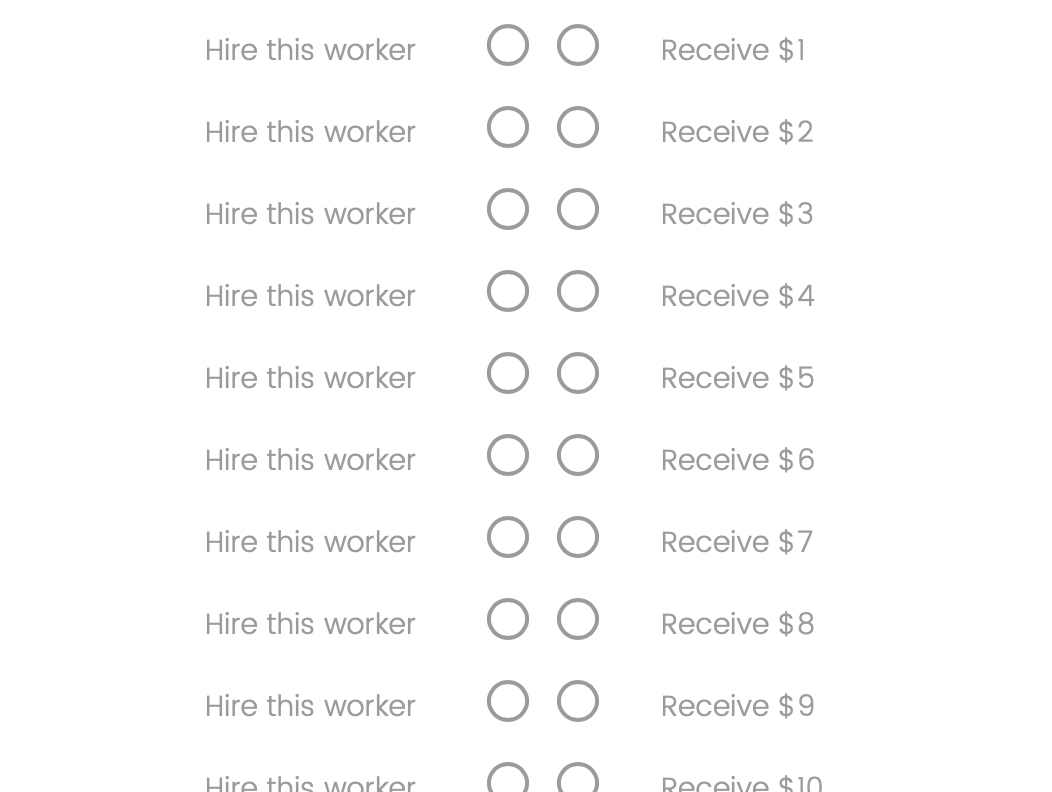
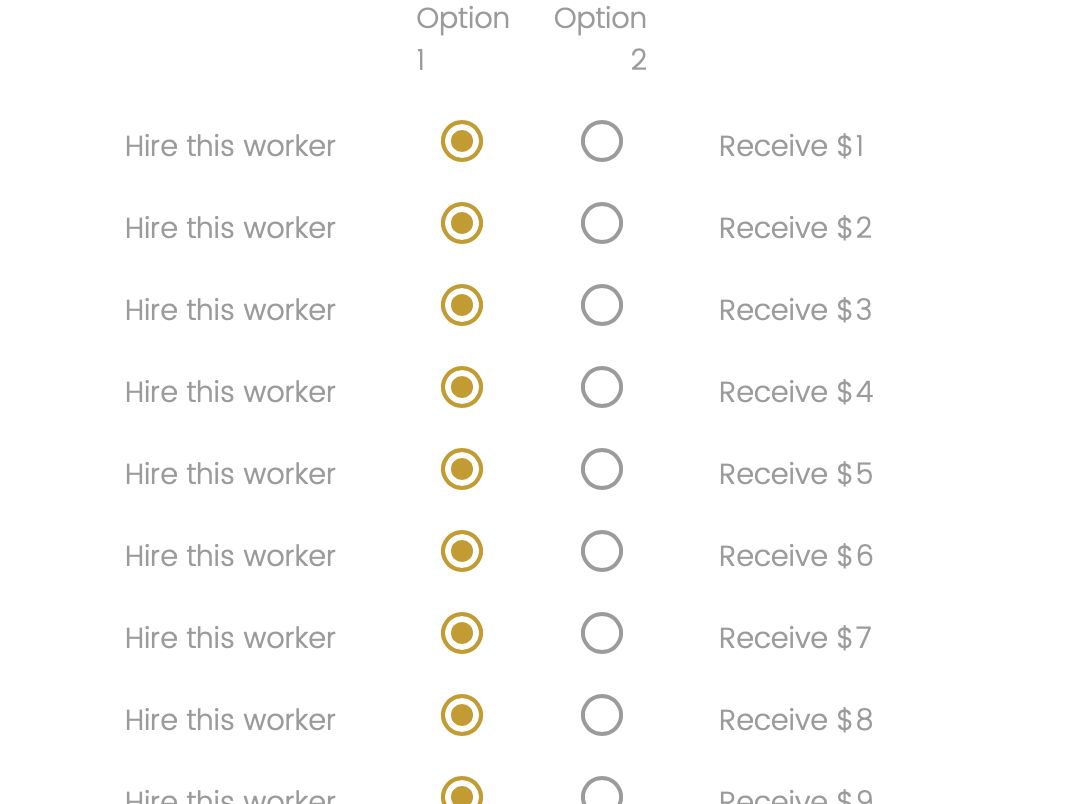
update instr and screenshots

diff --git a/instructions/deg_wtp/part3.html b/instructions/deg_wtp/part3.html
@@ -1,0 +1,132 @@
+<!DOCTYPE html>
+<html lang="en">
+<head>
+  <meta charset="UTF-8">
+  <title>Part 3 Instructions</title>
+  <!-- Link to UC Davis style.css file -->
+  <link rel="stylesheet" href="style.css">
+</head>
+<body>
+  <div class="container">
+    
+    <!-- Main Heading -->
+    <h2>Part 3 Instructions</h2>
+
+    <!-- Overview paragraph -->
+    <p>
+      <strong>Part 3 Overview:</strong> In this final part, you’ll consider hiring 
+      decisions for a set of workers. After reading these instructions, you’ll answer 
+      a short comprehension quiz (2 attempts per question). Then, you’ll make your 
+      hiring choices that can affect your bonus.
+    </p>
+
+    <!-- Ordered list of steps -->
+    <ol>
+      <!-- Step 1: Random Worker Profiles -->
+      <li>
+        <strong>Random Worker Profiles:</strong> You will see
+        <strong>${e://Field/n_profiles} workers</strong>, each randomly chosen from our group
+        (each worker has an equal chance of being selected).
+        <br><br>
+        Each worker’s profile includes:
+        <ul>
+          <li>A nickname</li>
+          <li>A profile avatar</li>
+          <li>A short description</li>
+        </ul>
+        <p><u>Example Profile:</u></p>
+        <img
+          src="https://christinasun.net/asset_hosting_service/instructions/deg_wtp/assets/profile_example_a.png"
+          alt="Example worker profile"
+          style="max-width: 400px; display: block;"
+        />
+      </li>
+
+      <!-- Step 2: What you'll do (hiring vs. money) -->
+      <li>
+        <strong>Your Task:</strong> For each worker, you’ll make a series of choices between:
+        <ul>
+          <li>
+            <strong>Hiring the worker</strong> (left option), which pays you $1 for every
+            point the worker scored (out of 12).
+          </li>
+          <li>
+            <strong>Receiving a fixed amount of money</strong> (right option), shown for each row.
+          </li>
+        </ul>
+        <p><u>Example:</u></p>
+        <img
+          src="https://christinasun.net/asset_hosting_service/instructions/deg_wtp/assets/mpl_example.png"
+          alt="Example multiple price list"
+          style="max-width: 600px; display: block;"
+        />
+      </li>
+
+      <!-- Step 3: Payment calculation -->
+      <li>
+        <strong>Payment for Part 3:</strong> At the end of the survey, 
+        <em>one of your choices</em> (one row) will be randomly selected to calculate 
+        your Part 3 bonus.
+        <ol type="a">
+          <li>
+            If you chose to hire the worker (the left option) in that selected row, 
+            you earn $1 × the worker’s actual score.
+            <br><br>
+            <u>Example:</u><br>
+            <img
+              src="https://christinasun.net/asset_hosting_service/instructions/deg_wtp/assets/switch_5_circle_3.png"
+              alt="Hire example"
+              style="max-width: 500px; display: block;"
+            />
+            <small>
+              Suppose this worker’s actual score was 2. Because you chose “Hire,” 
+              you earn $2.
+            </small>
+          </li>
+          <li>
+            If you chose the fixed amount (right option) in that selected row, 
+            you get that amount, no matter what the worker’s score is.
+            <br><br>
+            <u>Example:</u><br>
+            <img
+              src="https://christinasun.net/asset_hosting_service/instructions/deg_wtp/assets/switch_5_circle_7.png"
+              alt="Fixed amount example"
+              style="max-width: 400px; display: block;"
+            />
+            <small>
+              If you chose $7 in the selected row, you earn $7, regardless of the worker’s score.
+            </small>
+          </li>
+        </ol>
+      </li>
+
+      <!-- Step 4: Switch logic -->
+      <li>
+        <strong>How to make your choices:</strong> The left option is pre-selected by default. 
+        You only need to indicate where you want to “switch” from the left option to the right 
+        option. Below your switch point, the rows will autofill to the right option.
+        <br><br>
+        <u>Example:</u><br>
+        <iframe
+          src="https://christinasun.net/asset_hosting_service/instructions/deg_wtp/assets/mpl.gif"
+          width="635"
+          height="470"
+          style="border: none;"
+        >
+        </iframe>
+        <p>Once you switch, do not switch back. Think about why you’d only switch once.</p>
+      </li>
+
+      <!-- Step 5: Impact on worker -->
+      <li>
+        <strong>Note:</strong>
+        <ul>
+          <li>Your choices do <strong>not</strong> affect the earnings of the workers.</li>
+          <li>Your choices <strong>do</strong> affect your bonus for Part 3.</li>
+        </ul>
+      </li>
+    </ol>
+
+  </div>
+</body>
+</html>

diff --git a/instructions/deg_wtp/part1_instr_h.html b/instructions/deg_wtp/part1_instr_h.html
@@ -60,8 +60,8 @@
         The animation below shows the list of workers and their nicknames (anonymized to 
         protect their privacy).<br>
         <iframe
-          width="430"
-          height="430"
+          width="410"
+          height="410"
           src="https://christinasun.net/asset_hosting_service/instructions/deg_wtp/assets/scroll_h.gif"
           class="giphy-embed"
         >
